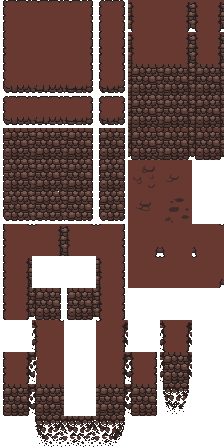
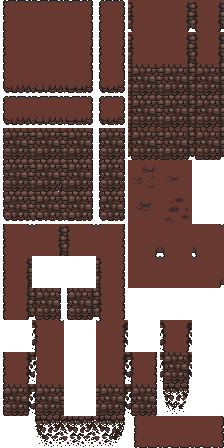
Update ground-tiles.png and adjust floor coordinates in TextureManager

Changed region(s): [[0.5938, 0.9062, 1.0, 1.0]]

diff --git a/TextureManager.js b/TextureManager.js
@@ -79,11 +79,11 @@ export class TextureManager {
                         case 'Top': sx = 34; sy = 0; break;
                         case 'Right': sx = 61; sy = 32; break;
                         case 'Left': sx = 3; sy = 32; break;
-                        case 'Bottom': sx = 35; sy = 61; break;
+                        case 'Bottom': sx = 160; sy = 416; break;
                         case 'TopLeft': sx = 3; sy = 0; break;
                         case 'TopRight': sx = 61; sy = 0; break;
-                        case 'BottomRight': sx = 61; sy = 61; break;
-                        case 'BottomLeft': sx = 3; sy = 61; break;
+                        case 'BottomRight': sx = 192; sy = 416; break;
+                        case 'BottomLeft': sx = 134; sy = 416; break;
                         default: sx = 8; sy = 5;
                     }
                 } else {

diff --git a/game.js b/game.js
@@ -382,5 +382,5 @@ class Game {
 
 // Initialize Game
 window.addEventListener('load', () => {
-    const game = new Game();
+    window.game = new Game();
 });
